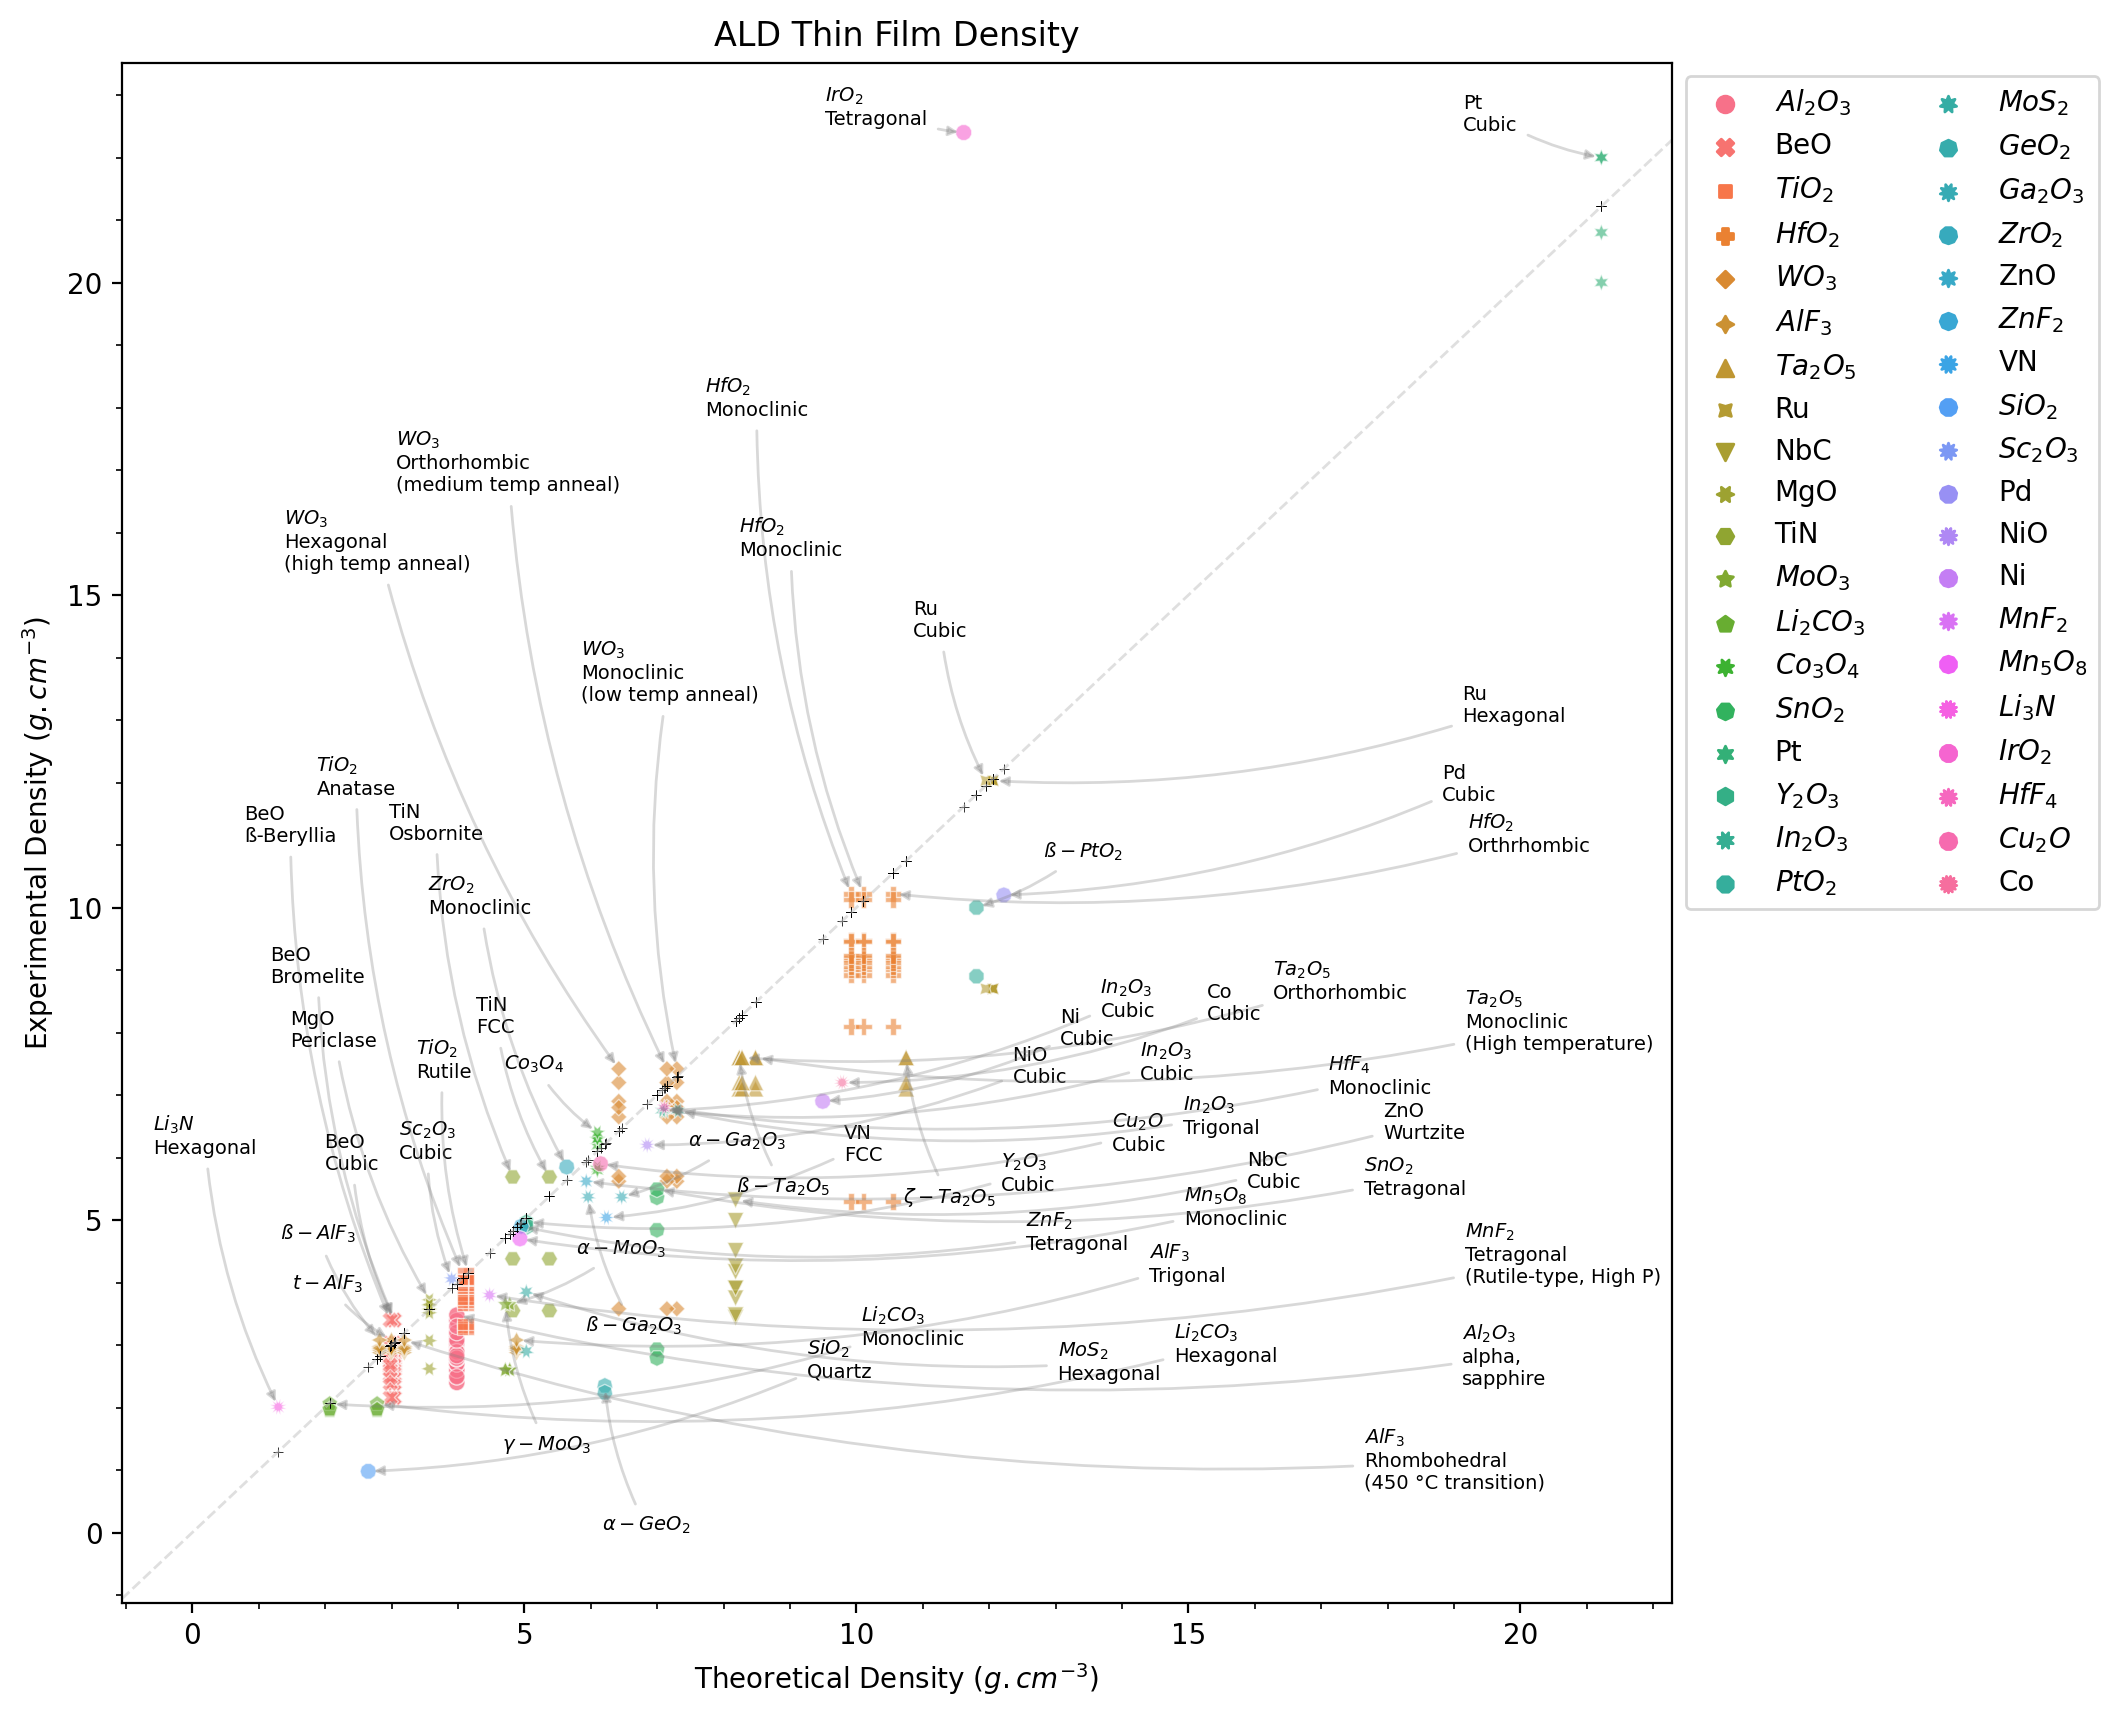
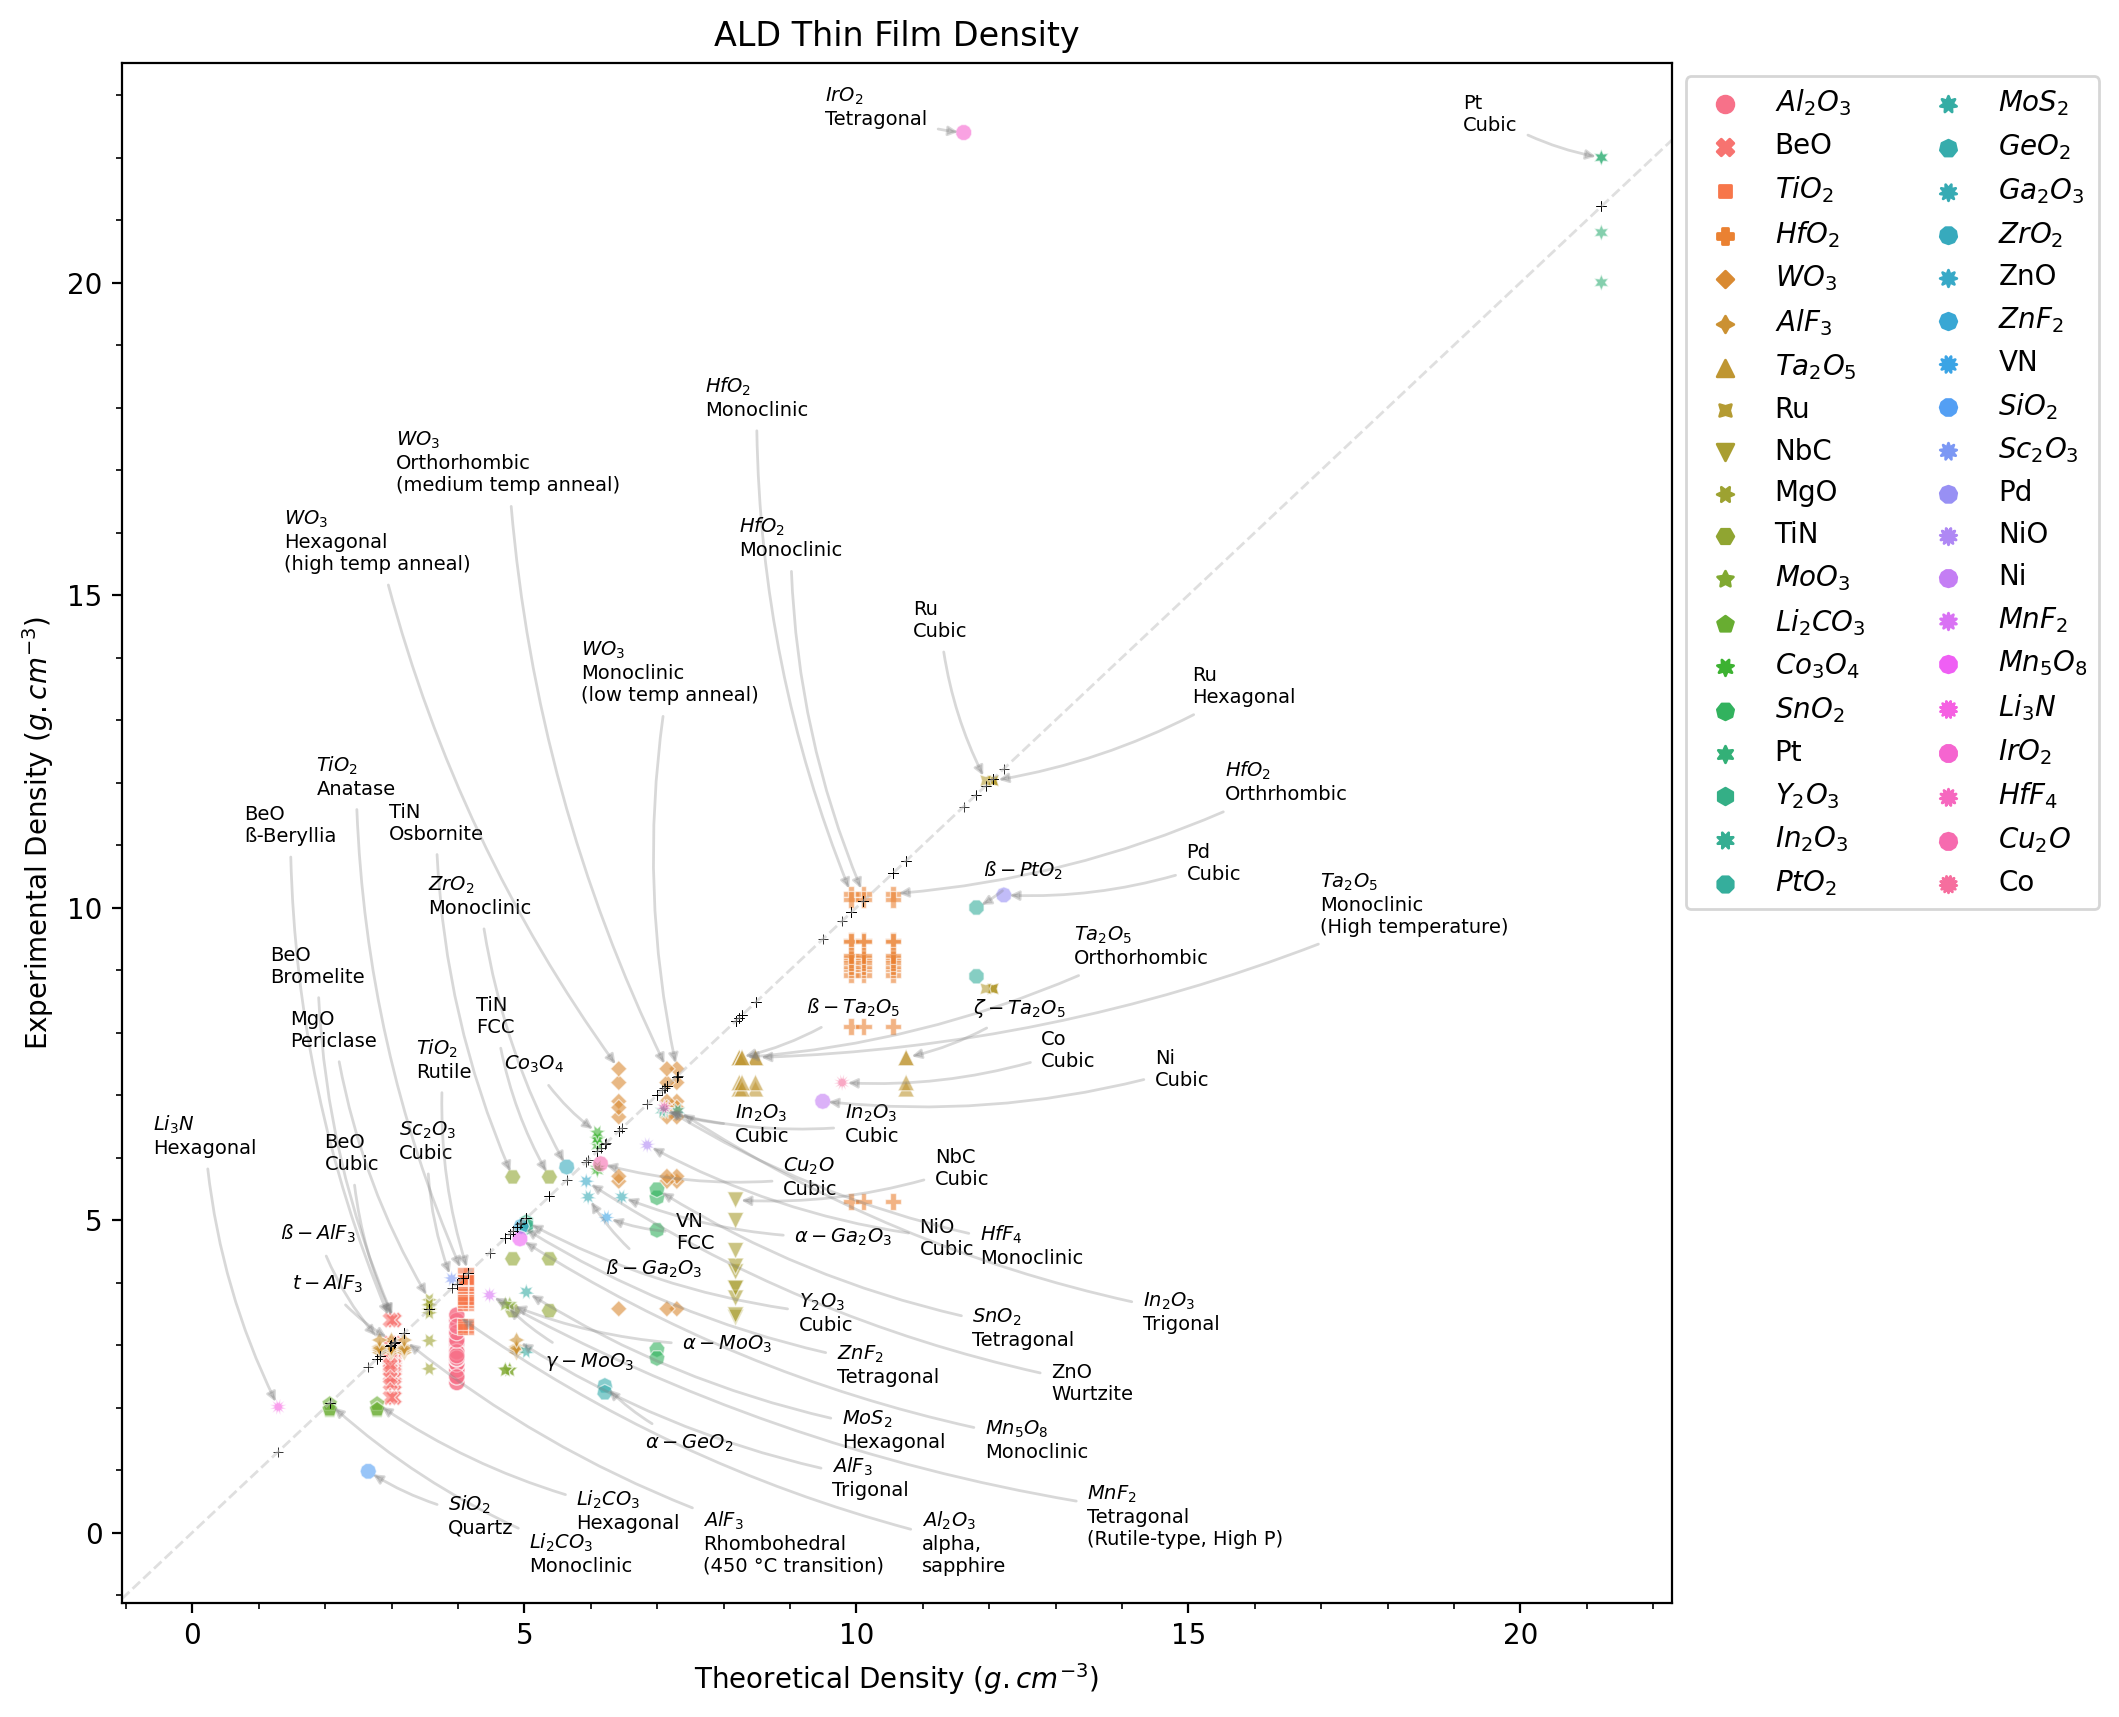
labels untangled

diff --git a/scripts/ald-density-ET.py b/scripts/ald-density-ET.py
@@ -397,8 +397,17 @@ def plot_data1(df, x, y, z, point_labels,  **kwargs):
         xlim_l = ax.get_xlim()[0] + (x_margin_l)
         xlim_h = ax.get_xlim()[1] - (x_margin_h)
         
-        sec_x1 = delta_x / 3.0
+        num_sections = 6.0
+        sec_x1 = delta_x / num_sections
         sec_x2 = ax.get_xlim()[1] - sec_x1
+
+        sections = [sec_x1 * i for i in range(0,int(num_sections)+1)]
+        point_in_section_more = [x_thr > x for x in sections]
+        point_section = point_in_section_more.count(True)
+        # print(sections)
+        # print(x_thr)
+        # print(point_in_section_more)
+        # print(point_section)
 
         # print("sections ", sec_x1, sec_x2)
 
@@ -424,101 +433,197 @@ def plot_data1(df, x, y, z, point_labels,  **kwargs):
                 ox = 8.5
                 oy = -0.5
 
-                if seq_lbl_lines % 5 == 1:
-                    ox *= 1.70
-                    oy *= 4.75
-                elif seq_lbl_lines % 5 == 2:
-                    ox *= 1.85
-                    oy *= 2.25
-                elif seq_lbl_lines % 5 == 3:
-                    ox *= 1.75
-                    oy *= -0.40
-                elif seq_lbl_lines % 5 == 4:
-                    ox *= 1.65
-                    oy *= -0.25
-                elif seq_lbl_lines % 5 == 0: # NONE
-                    ox *= 1.0
-                    oy *= 1.0
+                if point_section == 1:
+                    ox = 4.5
+                    oy = -6.0
+                if point_section == 2:
+                    ox = 7.0
+                    oy = -6.0
+
+                    if seq_lbl_lines % 2 == 1:
+                        ox = 9.0
+                        oy = -4.0
+
+                if point_section == 3:
+                    # ox = 6.0
+                    oy = 2.0
+                if point_section == 4: pass
+                    # ox = 6.0
+                    # oy = -3.0
+
+
+                # if seq_lbl_lines % 5 == 1:
+                #     ox *= 1.70
+                #     oy *= 4.75
+                # elif seq_lbl_lines % 5 == 2:
+                #     ox *= 1.85
+                #     oy *= 2.25
+                # elif seq_lbl_lines % 5 == 3:
+                #     ox *= 1.75
+                #     oy *= -0.40
+                # elif seq_lbl_lines % 5 == 4:
+                #     ox *= 1.65
+                #     oy *= -0.25
+                # elif seq_lbl_lines % 5 == 0: # NONE
+                #     ox *= 1.0
+                #     oy *= 1.0
 
 
             elif lg_twolines:
                 ox = 8.0
                 oy = -1.5
 
-                if seq_lbl_lines % 5 == 1: # 1
-                    ox *= 1.0
-                    oy *= 1.25
+
+                if point_section == 1:
+                    ox = 3.0
+                    oy = -2.0
 
                     if seq_lbl_lines % 2 == 1:
-                        oy *= -0.50
-                    else:
-                        oy *= 0.75
+                        oy = -3.0
 
-                if seq_lbl_lines % 5 == 2: # 2
-                    ox *= 1.50
-                    oy *= -0.45
+                elif point_section == 2:
+                    ox = 4.75
+                    oy = -2.5
 
-                if seq_lbl_lines % 5 == 3: # 3
-                    ox *= 1.40
-                    oy *= 1.25
+                    if seq_lbl_lines % 3 == 1:
+                        ox = 7.0
+                        oy = -3.5
 
-                    if seq_lbl_lines % 2 == 0:
-                        ox *= 0.95
-                        oy *= 0.05
-                    if seq_lbl_lines % 2 == 1:
-                        ox *= 0.85
-                        oy *= -0.50
+                elif point_section == 3:
+                    ox = 5.0
+                    oy = 1.5
 
-                if seq_lbl_lines % 5 == 4:
-                    ox *= 1.25
-                    oy *= -0.15
+                elif point_section == 4:
+                    ox = 3.0
+                    oy = 1.25
 
-                if seq_lbl_lines % 5 == 0:
-                    ox *= 0.95
-                    oy *= 0.25
+           
+
+                # if seq_lbl_lines % 5 == 1: # 1
+                #     ox *= 1.0
+                #     oy *= 0.75
+
+                #     if seq_lbl_lines % 2 == 1:
+                #         oy *= -0.50
+                #     else:
+                #         oy *= 0.75
+
+                # if seq_lbl_lines % 5 == 2: # 2
+                #     ox *= 1.3
+                #     oy *= -0.40
+
+                # if seq_lbl_lines % 5 == 3: # 3
+                #     ox *= 1.6
+                #     oy *= 0.6
+
+                #     if seq_lbl_lines % 2 == 0:
+                #         ox *= 0.95
+                #         oy *= 0.05
+                #     if seq_lbl_lines % 2 == 1:
+                #         ox *= 0.85
+                #         oy *= -0.50
+
+                # if seq_lbl_lines % 5 == 4: # 4
+                #     ox *= 1.25
+                #     oy *= -0.15
+
+                # if seq_lbl_lines % 5 == 0: # 0
+                #     ox *= 0.95
+                #     oy *= 0.25
+
+
+
 
             elif twolines and not(lg_twolines):
-                # print("-"*20,seq_lbl_lines)
+                print("-"*30,seq_lbl_lines, seq_lbl_lines % 5)
 
                 ox = 5.5
                 oy = 1.0
 
+                if point_section == 1:
+                    ox = 1.2
+                    oy = -1.0
+                elif point_section == 2:
+                    ox = 2.75
+                    oy = -0.5
 
-                if seq_lbl_lines % 5 == 1:
-                    ox *= 1.2
-                    oy *= 1.5
+                    if seq_lbl_lines % 3 == 1:
+                        ox = 1.05
+                        oy = -0.5
+                    elif seq_lbl_lines % 3 == 2:
+                        ox = 4.1
+                        oy = -1.75
 
-                if seq_lbl_lines % 5 == 2:
-                    ox *= 1.3
-                    oy *= 0.5
+                elif point_section == 3:
+                    ox = 3.0
+                    oy = 0.25
 
-                if seq_lbl_lines % 5 == 3:
-                    ox *= 1.4
-                    oy *= 0.2
+                    if seq_lbl_lines % 2 == 1:
+                        ox = 5.0
 
-                if seq_lbl_lines % 5 == 4:
-                    ox *= 0.65
-                    oy *= 0.90
+                elif point_section == 4:
+                    ox = 2.75
+                    oy = 0.25
 
-                if seq_lbl_lines % 5 == 0:
-                    ox *= 1.0
-                    oy *= 1.0
+                # if seq_lbl_lines % 5 == 1:
+                #     ox *= 1.2
+                #     oy *= 1.75
+
+                # if seq_lbl_lines % 5 == 2:
+                #     ox *= 1.3
+                #     oy *= 0.5
+
+                # if seq_lbl_lines % 5 == 3:
+                #     ox *= 1.4
+                #     oy *= 0.2
+
+                # if seq_lbl_lines % 5 == 4:
+                #     ox *= 0.65
+                #     oy *= 0.90
+
+                # if seq_lbl_lines % 5 == 0:
+                #     ox *= 1.0
+                #     oy *= 0.9
+
+
+
 
             elif oneline:
-                ox = -0.05
-                oy = -1.6
+                ox = 0.1
+                oy = -1.3
 
-                if seq_lbl_lines % 3 == 0:
-                    ox *= 1.0
-                    oy *= 1.35
 
-                if seq_lbl_lines % 3 == 1:
-                    ox *= 1.0
-                    oy *= 1.45
+                if point_section == 1: pass # no points as of 2022-07-28
+                if point_section == 2:
+                    ox = 0.25
+                    oy = -1.25
 
-                if seq_lbl_lines % 3 == 2:
+                    if seq_lbl_lines % 3 == 1:
+                        ox = 0.6
+                        oy = -1.0
+                    if seq_lbl_lines % 3 == 2:
+                        ox = 2.6
+                        oy = -0.73
+
+                if point_section == 3:
                     ox = 1.0
-                    oy *= -0.5
+                    oy = 0.7
+                if point_section == 4:
+                    ox = 0.1
+                    oy = 0.5
+
+                # if seq_lbl_lines % 3 == 0:
+                #     ox *= 1.0
+                #     oy *= 1.35
+
+                # if seq_lbl_lines % 3 == 1:
+                #     ox *= 1.0
+                #     oy *= 1.45
+
+                # if seq_lbl_lines % 3 == 2:
+                #     ox = 1.0
+                #     oy *= -0.5
+
 
             if point_in_margin_yl:
                 print(f"MARGIN / Y L {pnt_lbl}\n")
@@ -731,7 +836,7 @@ def plot_data1(df, x, y, z, point_labels,  **kwargs):
                         oy *= 0.8
 
             elif oneline:
-                print("-"*30,seq_lbl_lines, seq_lbl_lines % 5)
+                # print("-"*30,seq_lbl_lines, seq_lbl_lines % 5)
 
                 ox=lvls["sm"] * -1
                 oy=lvls["sm"]
